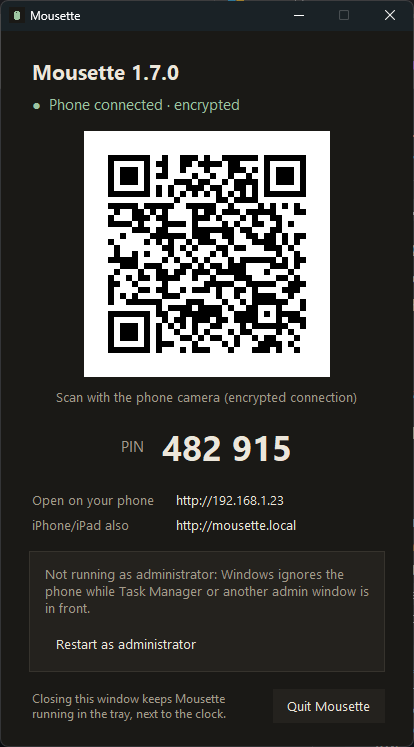
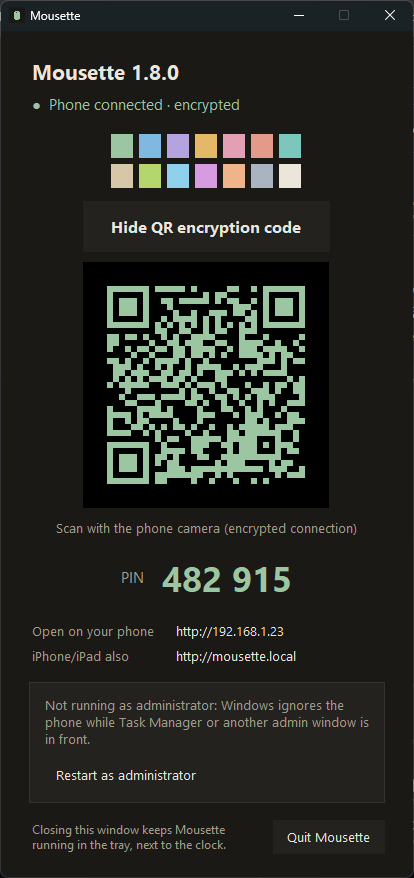
README: new window and settings screenshots for 1.8.0

diff --git a/README.md b/README.md
@@ -7,7 +7,7 @@ Turn your phone into a trackpad and keyboard for your PC over your home network.
   &nbsp;
   <img src="docs/screenshot-media.png" width="230" alt="Mousette with the Media panel open: volume down, mute, volume up, previous, play/pause, next">
   &nbsp;
-  <img src="docs/screenshot-settings.png" width="230" alt="Mousette settings: accent color, bar buttons and bar order">
+  <img src="docs/screenshot-settings.png" width="230" alt="Mousette settings: 14 accent colors, bar buttons and bar order">
 </p>
 
 ## What works where
@@ -63,7 +63,7 @@ On Windows, avoid very deeply nested folders: Windows has a 260-character path l
 - whether a phone is connected, and whether the connection is encrypted
 
 <p align="center">
-  <img src="docs/screenshot-window.png" width="330" alt="The Mousette window: Phone connected, encrypted; the QR code; PIN 482 915; the addresses http://192.168.1.23 and http://mousette.local; a Restart as administrator button and Quit Mousette">
+  <img src="docs/screenshot-window.png" width="330" alt="The Mousette window: Phone connected, encrypted; 14 color dots; Hide QR encryption code; the QR code in green on black; PIN 482 915 in green; the addresses http://192.168.1.23 and http://mousette.local; a Restart as administrator button and Quit Mousette">
 </p>
 
 Mousette also puts its icon in the tray, next to the clock (click **^** if you don't see it). Closing the window keeps Mousette running there; click the icon to show the window again. Right-click it for **Show Mousette**, **Restart as administrator**, **Open log** and **Quit Mousette**. Starting `Mousette.exe` again just brings the window back.
